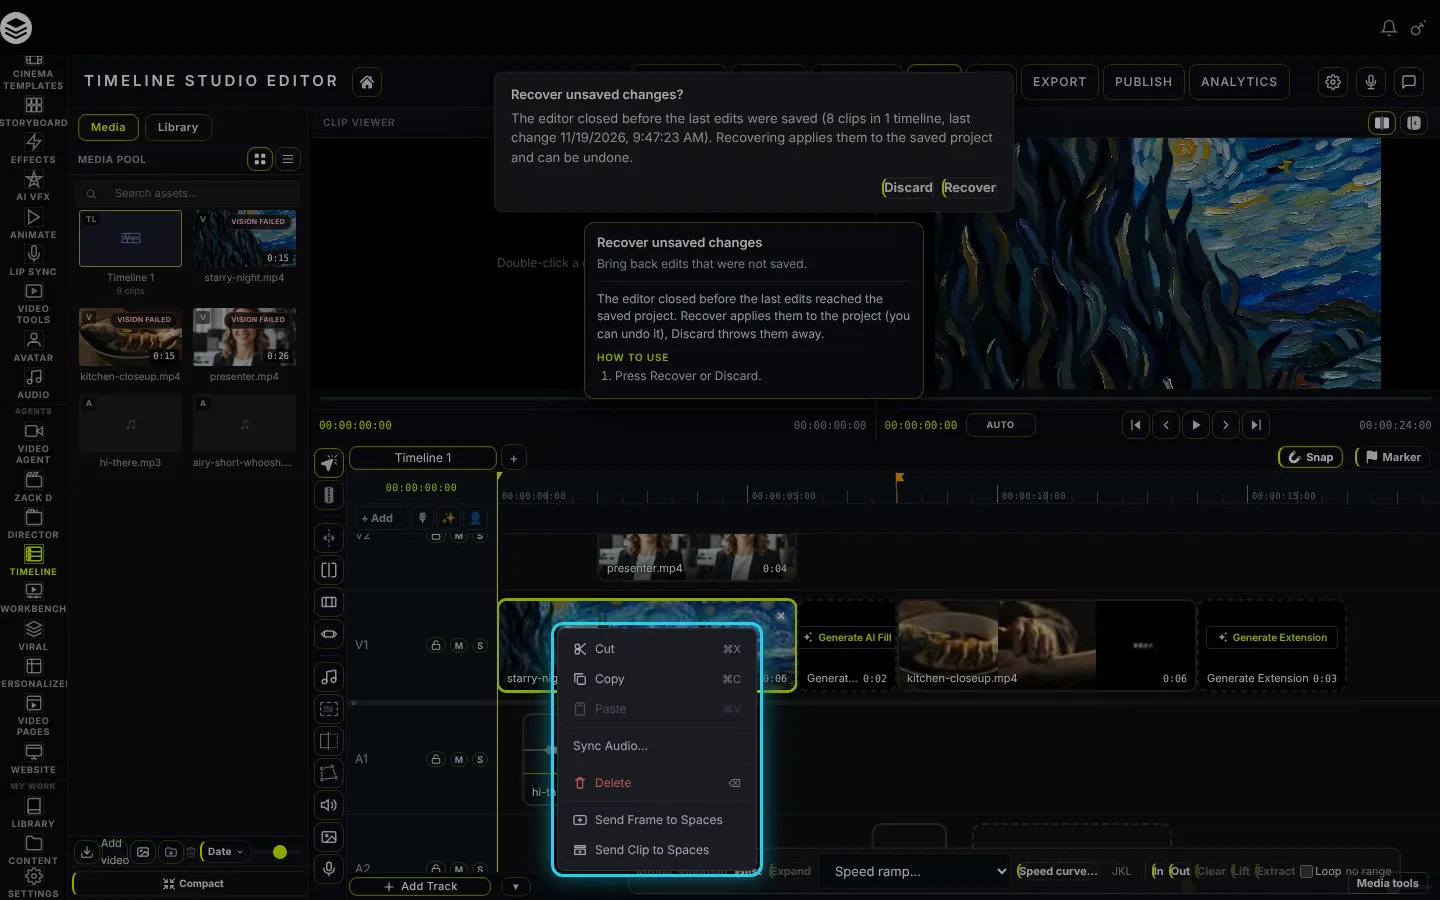
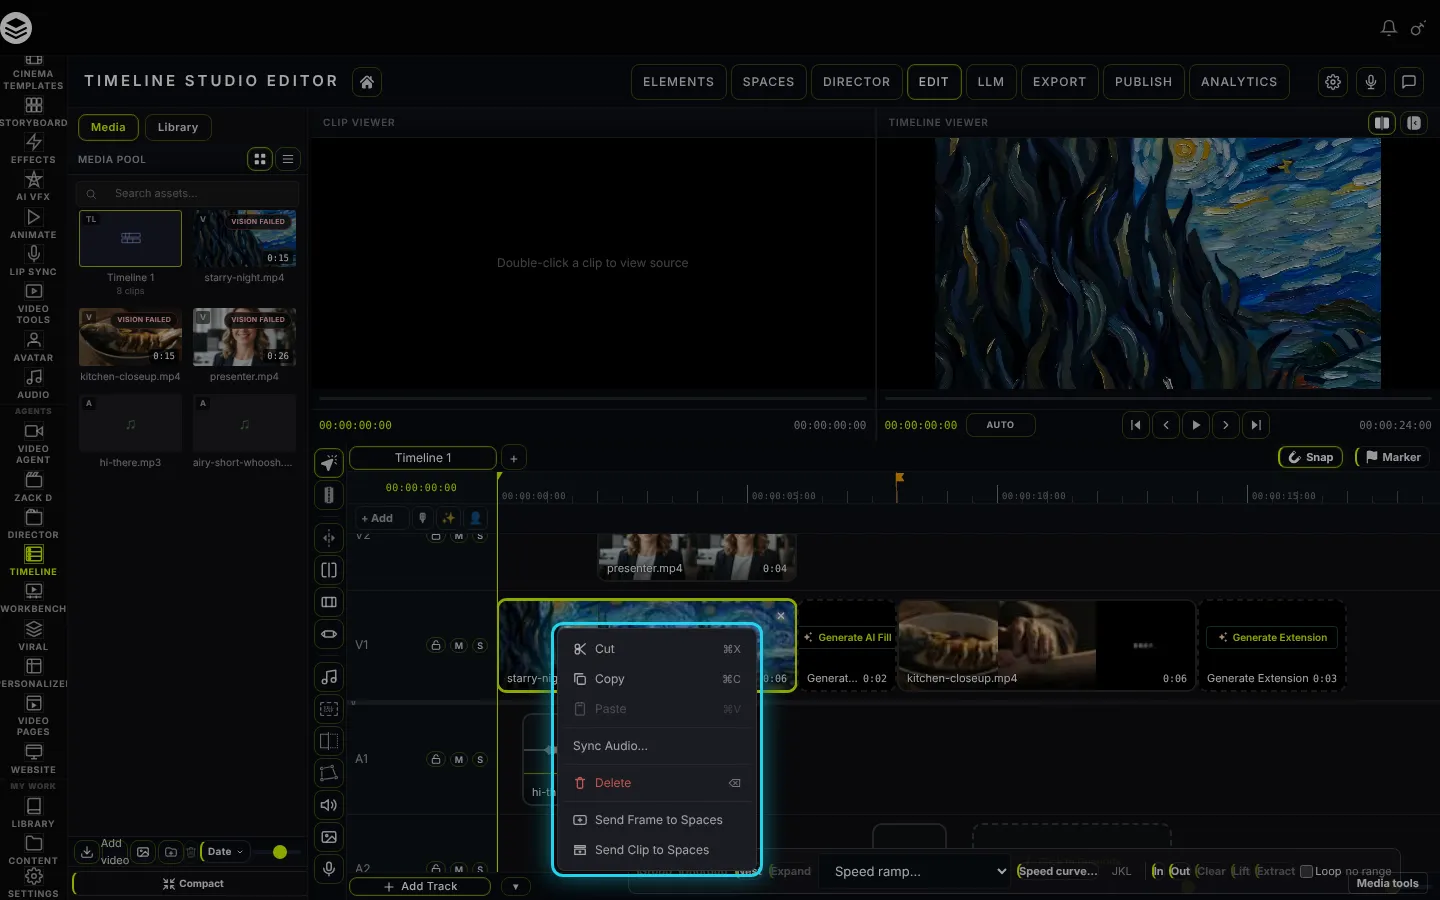
Guide capture: overview setup hook, stable ?dev= URL, group C targets and shots
Claude-Session: https://claude.ai/code/session_01HH9yPdRiZqnMsAJJ2wNMTX

diff --git a/tests/e2e/guide-screenshots.spec.js b/tests/e2e/guide-screenshots.spec.js
@@ -134,7 +134,7 @@ async function waitForStudio(page) {
 }
 
 async function open(page, route) {
-  await page.goto(`${BASE}/?dev#/${route}`, { waitUntil: 'domcontentloaded' });
+  await page.goto(`${BASE}/?dev=#/${route}`, { waitUntil: 'domcontentloaded' });
   await waitForStudio(page);
   await dismissOverlays(page);
   await page.evaluate(() => window.scrollTo(0, 0));
@@ -226,6 +226,12 @@ for (const guide of GUIDES) {
     };
 
     await open(page, guide.route);
+    // Optional "__overview": { "setup": "..." } seeds state (e.g. skip a welcome wizard) before the overview shot.
+    const ov = (TARGETS[guide.slug] || {}).__overview;
+    if (ov?.setup) {
+      await page.evaluate(ov.setup).catch((e) => console.log(`    overview setup error: ${e.message.split('\n')[0]}`));
+      if (ov.reload !== false) await open(page, guide.route);
+    }
     shot.overview = await save('overview');
     let here = guide.route;
 

diff --git a/tests/e2e/guide-screenshot-targets.js b/tests/e2e/guide-screenshot-targets.js
@@ -24,6 +24,7 @@ import { fileURLToPath } from 'node:url';
 //     "steps": [{ "text": "Label" }, { "selector": "css", "wait": 1500 }]
 //                                                       clicks to run first (menus, sub-tabs, wizard steps);
 //                                                       with no text/selector the result itself is the shot
+//     "__overview": { "setup": "..." }                  (guide level) seed state before the overview shot
 //     "setup": "js expression"                          run in the page first (e.g. seed a sample result in
 //                                                       localStorage), then the studio is reloaded
 //                                                       ("reload": false to skip the reload)
